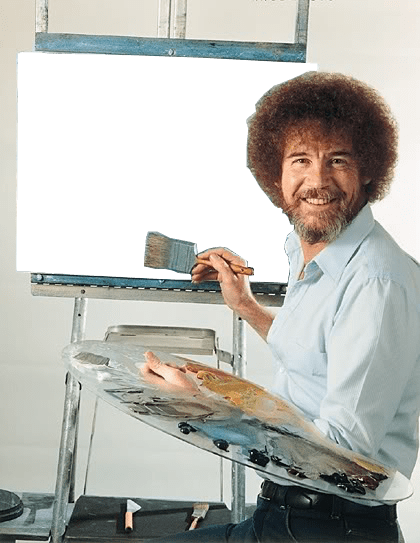
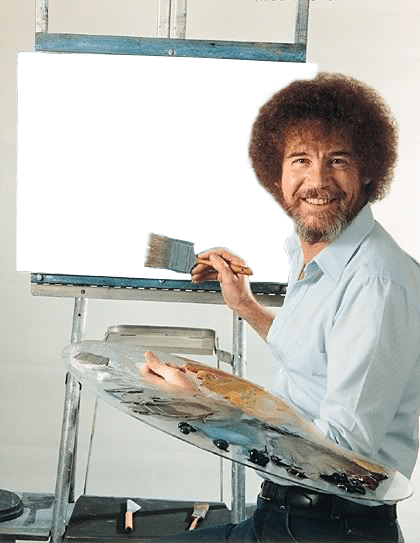
fixed bob's picture, tweaked styling

diff --git a/src/components/Projects/bobross/components/PaintingDetail.css b/src/components/Projects/bobross/components/PaintingDetail.css
@@ -1,129 +1,173 @@
 .detail-view {
-    max-width: 900px;
-    margin: 0 auto;
-  }
-  
-  .back-btn {
-    background: none;
-    border: 1px solid #d2b48c;
-    padding: 8px 16px;
-    border-radius: 20px;
-    cursor: pointer;
-    color: #8b7355;
-    margin-bottom: 30px;
-  }
-  
-  .frame-container {
-    padding: 20px;
-    background: white;
-    box-shadow: 0 30px 60px rgba(0,0,0,0.3);
-  }
-  
-  .wood-frame {
-    border: 18px solid #3d2b1f; /* Dark wood frame */
-    border-style: inset;
-    background: #000;
-  }
-  
-  .wood-frame img {
-    width: 100%;
-    display: block;
-  }
-  
-  .content-section {
-    padding: 40px 0;
-    text-align: center;
-  }
-  
-  .detail-title {
-    font-size: 2.5rem;
-    color: #3d2b1f;
-    margin-bottom: 5px;
-  }
-  
-  .swatch-grid {
-    display: flex;
-    flex-wrap: wrap;
-    gap: 15px;
-    justify-content: center;
-    margin-top: 20px;
-  }
-  
-  .swatch-item {
-    display: flex;
-    flex-direction: column;
-    align-items: center;
-    width: 80px;
-  }
-  
-  .color-circle {
-    width: 35px;
-    height: 35px;
-    border-radius: 50%;
-    border: 2px solid white;
-    box-shadow: 0 2px 4px rgba(0,0,0,0.2);
-    margin-bottom: 5px;
-  }
-  
-  .swatch-item span {
-    font-size: 0.7rem;
-    color: #666;
-  }
-  
-  .watch-btn {
-    display: inline-block;
-    margin-top: 40px;
-    color: #e50914;
-    text-decoration: none;
-    font-weight: bold;
-    border-bottom: 2px solid transparent;
-  }
-  
-  .watch-btn:hover {
-    border-bottom-color: #e50914;
+  max-width: 1100px;
+  margin: 0 auto;
+  padding: 40px 20px;
+  color: #3d2b1f; /* Explicit base color for all text */
+}
+
+.detail-main-content {
+  display: flex;
+  flex-direction: column; /* Stacked on mobile */
+  gap: 30px;
+  align-items: center;
+}
+
+.canvas-wrapper {
+  width: 100%;
+  max-width: 500px; /* Limits image size on mobile */
+  display: flex;
+  justify-content: center;
+  align-items: center;
+  background: #f0f0f0;
+  border-radius: 12px;
+  padding: 20px;
+}
+
+.content-section {
+  width: 100%;
+  text-align: center;
+  display: flex;
+  flex-direction: column;
+  gap: 15px; /* Adds space between elements */
+}
+
+
+/* Maintain your existing specific element styles below */
+.painting-window {
+  display: grid;
+  position: relative;
+  width: 100%;
+  max-width: 500px;
+  aspect-ratio: 3 / 4;
+  overflow: hidden;
+}
+
+.painting-layer,
+.overlay-layer {
+  grid-area: 1 / 1;
+  width: 100%;
+  height: 100%;
+  object-fit: contain;
+}
+
+.painting-layer {
+  z-index: 1;
+  transform: scale(0.725) translate(-15%, -26.5%) rotate(3deg);
+}
+
+.overlay-layer {
+  z-index: 2;
+  pointer-events: none;
+}
+
+.back-btn {
+  background: none;
+  border: 1px solid #d2b48c;
+  padding: 8px 16px;
+  border-radius: 20px;
+  cursor: pointer;
+  color: #8b7355;
+  margin-bottom: 30px;
+}
+
+.detail-title {
+  font-size: 2.5rem;
+  margin: 0;
+  color: #2c1e14;
+}
+
+.detail-meta {
+  font-size: 1.2rem;
+  font-weight: bold;
+  color: #8b7355; /* Earthy brown to ensure visibility */
+  margin: 0;
+}
+
+.palette-section h3 {
+  font-size: 1.1rem;
+  border-bottom: 2px solid #d2b48c;
+  padding-bottom: 5px;
+  display: inline-block;
+  margin-bottom: 15px;
+}
+
+.swatch-grid {
+  display: flex;
+  flex-wrap: wrap;
+  gap: 15px;
+  margin-top: 20px;
+}
+
+.swatch-item {
+  display: flex;
+  flex-direction: column;
+  align-items: center;
+  width: 60px;
+}
+
+.swatch-grid {
+  display: flex;
+  flex-wrap: wrap;
+  gap: 12px;
+  justify-content: center;
+}
+
+.swatch-item {
+  display: flex;
+  flex-direction: column;
+  align-items: center;
+  width: 70px;
+}
+
+.swatch-item span {
+  font-size: 0.75rem;
+  color: #555; /* Dark gray for the color names */
+  margin-top: 4px;
+  text-align: center;
+}
+
+.watch-btn {
+  display: inline-block;
+  margin-top: 20px;
+  padding: 12px 24px;
+  background-color: #e50914; /* YouTube Red */
+  color: white !important; /* Ensure text is white */
+  text-decoration: none;
+  border-radius: 5px;
+  font-weight: bold;
+  align-self: center;
+}
+
+.color-circle {
+  width: 30px;
+  height: 30px;
+  border-radius: 50%;
+  border: 2px solid white;
+  box-shadow: 0 2px 4px rgba(0,0,0,0.2);
+  margin-bottom: 5px;
+}
+
+
+/* Desktop Styles */
+@media (min-width: 768px) {
+  .detail-main-content {
+    flex-direction: row; /* Side-by-side on desktop */
+    align-items: flex-start;
+    gap: 50px;
   }
 
   .canvas-wrapper {
-    display: flex;
-    justify-content: center;
-    align-items: center;
-    padding: 40px;
-    background: #f0f0f0; /* Backdrop for the whole setup */
+    flex: 1.2; /* Give the image slightly more space */
   }
-  
-  .painting-window {
-    display: grid;
-    position: relative;
-    width: auto;
-    max-width: 600px; /* Adjust based on your overlay's size */
-    aspect-ratio: 3 / 4; /* Matches standard Bob Ross canvas size */
-    overflow: hidden;
-    box-shadow: 0 20px 50px rgba(0,0,0,0.3);
+
+  .content-section {
+    flex: 1;
+    text-align: left; /* Align text to the left when side-by-side */
+    padding-top: 20px;
   }
-  
-  /* Both layers occupy the same space */
-  .painting-layer,
-  .overlay-layer {
-    grid-area: 1 / 1;
-    width: auto;
-    height: 100%;
-    object-fit: contain;
+
+  .swatch-grid {
+    justify-content: flex-start; /* Align swatches to the left on desktop */
   }
-  
-  /* Ensure the painting is strictly behind */
-  .painting-layer {
-    grid-area: 1 / 1;
-    width: 100%;
-    height: 100%;
-    object-fit: contain;
-    z-index: 1;
-    
-    /* Keep your scale to make it fit the hole */
-    transform: scale(0.725) translate(-15%, -26.5%);
-  }
-  
-  /* Ensure Bob Ross is strictly on top */
-  .overlay-layer {
-    z-index: 2;
-    pointer-events: none; /* Allows you to still click the painting if needed */
-  }
+
+}

diff --git a/src/components/Projects/bobross/components/PaintingDetail.tsx b/src/components/Projects/bobross/components/PaintingDetail.tsx
@@ -2,7 +2,7 @@ import React from 'react';
 import data from '../assets/bob-ross.json';
 import type { BobRossData } from '../types';
 import './PaintingDetail.css';
-import bobOverlay from '../assets/bob-painting.png'
+import bobOverlay from '../assets/bob-painting.png';
 
 interface DetailProps {
   paintingId: number;
@@ -19,48 +19,46 @@ const PaintingDetail: React.FC<DetailProps> = ({ paintingId, onBack }) => {
     <div className="detail-view">
       <button onClick={onBack} className="back-btn">← Back to Gallery</button>
       
-      <div className="canvas-wrapper">
-        {/* The "Window" Container */}
-        <div className="painting-window">
-          {/* Layer 1: The Painting (Behind) */}
-          <img 
-            src={painting.img_src} 
-            alt={painting.painting_title} 
-            className="painting-layer" 
-          />
-          
-          {/* Layer 2: Bob Ross (In Front) */}
-          <img 
-            src={bobOverlay} 
-            alt="Bob Ross Overlay" 
-            className="overlay-layer" 
-          />
-        </div>
-      </div>
-
-      <div className="content-section">
-        <h1 className="detail-title">{painting.painting_title}</h1>
-        <p className="detail-meta">Season {painting.season}, Episode {painting.episode}</p>
-        
-        <div className="palette-section">
-          <h3>Palette Used</h3>
-          <div className="swatch-grid">
-            {painting.color_hex.map((hex, i) => (
-              <div key={i} className="swatch-item">
-                <div 
-                  className="color-circle" 
-                  style={{ backgroundColor: hex }} 
-                  title={painting.colors[i]}
-                />
-                <span>{painting.colors[i]}</span>
-              </div>
-            ))}
+      <div className="detail-main-content">
+        <div className="canvas-wrapper">
+          <div className="painting-window">
+            <img 
+              src={painting.img_src} 
+              alt={painting.painting_title} 
+              className="painting-layer" 
+            />
+            <img 
+              src={bobOverlay} 
+              alt="Bob Ross Overlay" 
+              className="overlay-layer" 
+            />
           </div>
         </div>
-        
-        <a href={painting.youtube_src} target="_blank" rel="noreferrer" className="watch-btn">
-          Watch Bob Paint This →
-        </a>
+
+        <div className="content-section">
+          <h1 className="detail-title">{painting.painting_title}</h1>
+          <p className="detail-meta">Season {painting.season}, Episode {painting.episode}</p>
+          
+          <div className="palette-section">
+            <h3>Palette Used</h3>
+            <div className="swatch-grid">
+              {painting.color_hex.map((hex, i) => (
+                <div key={i} className="swatch-item">
+                  <div 
+                    className="color-circle" 
+                    style={{ backgroundColor: hex }} 
+                    title={painting.colors[i]}
+                  />
+                  <span>{painting.colors[i]}</span>
+                </div>
+              ))}
+            </div>
+          </div>
+          
+          <a href={painting.youtube_src} target="_blank" rel="noreferrer" className="watch-btn">
+            Watch Bob Paint This →
+          </a>
+        </div>
       </div>
     </div>
   );
